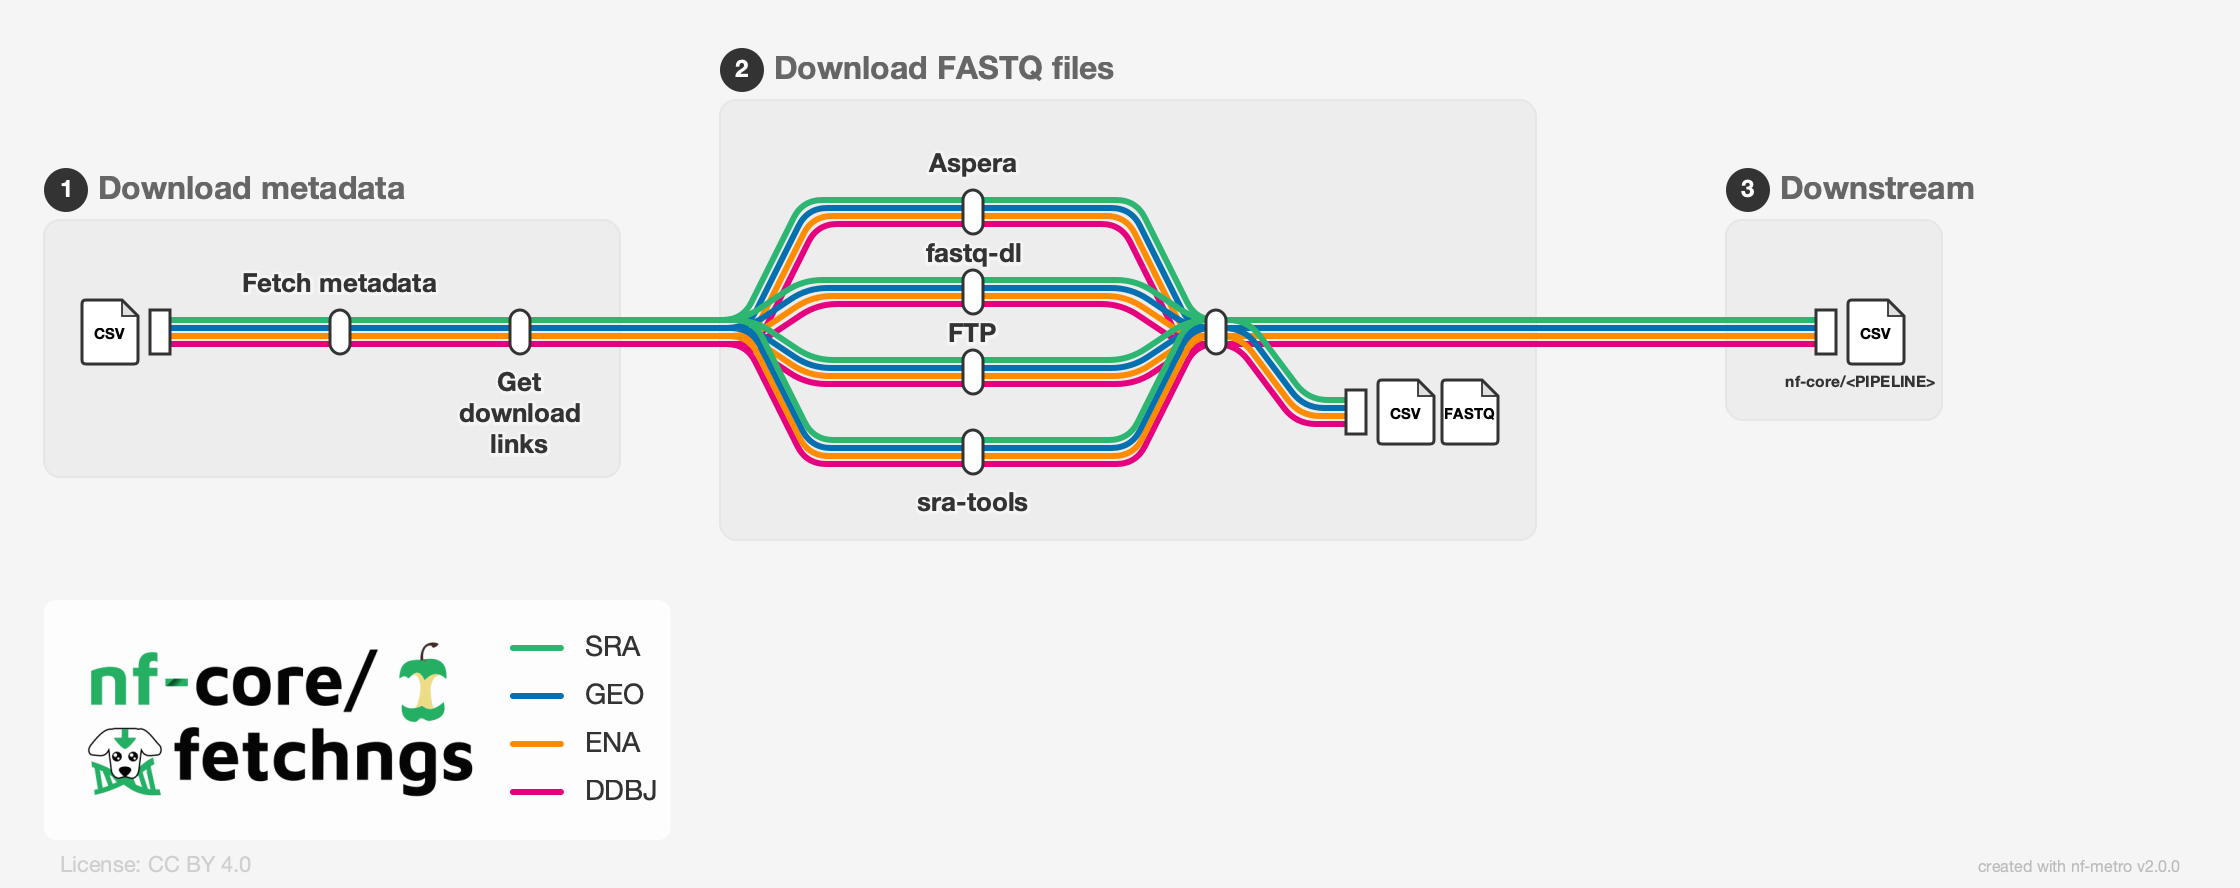
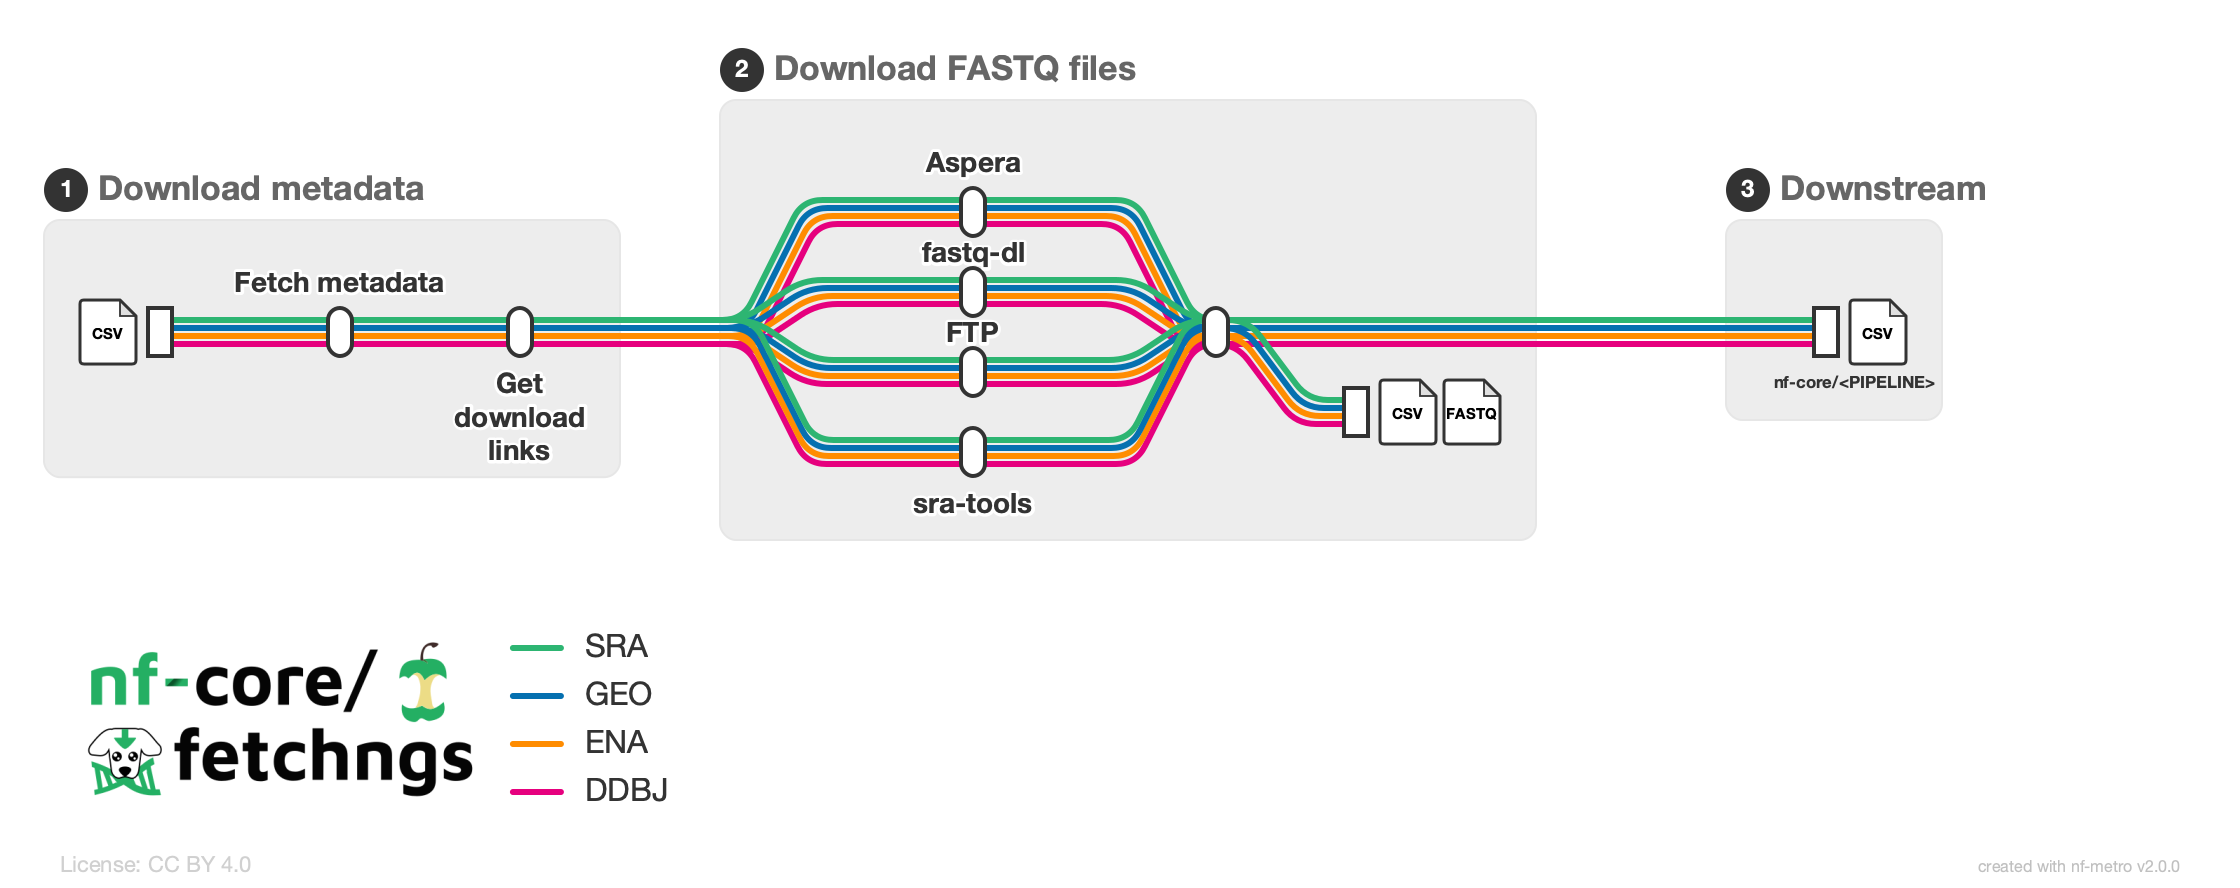
Use transparent background for metro map (#393)

diff --git a/docs/dev/metro_map.md b/docs/dev/metro_map.md
@@ -10,11 +10,14 @@ nf-metro render assets/metro_map.mmd \
   -o docs/images/nf-core-fetchngs_metro_map_grey.svg \
   --logo docs/images/nf-core-fetchngs_logo_light.png
 
-# PNG: bake the light palette and drop the var() chrome CSS cairosvg can't parse.
+# PNG: render with the `light` theme, whose background_color is 'none', so the
+# PNG has a transparent ground and stays readable in both GitHub light and dark
+# mode. Its chrome palette is identical to nfcore-light. Drop the var() chrome
+# CSS cairosvg can't parse.
 # Use cairosvg, not rsvg-convert, which ignores dominant-baseline and overlaps labels.
 nf-metro render assets/metro_map.mmd \
   -o /tmp/fetchngs_metro_flat.svg \
-  --mode light --no-chrome-css \
+  --theme light --no-chrome-css \
   --logo docs/images/nf-core-fetchngs_logo_light.png
 
 python -c "import cairosvg; cairosvg.svg2png(

diff --git a/CHANGELOG.md b/CHANGELOG.md
@@ -59,6 +59,7 @@ Thank you to everyone else that has contributed by reporting bugs, enhancements 
 - [PR #389](https://github.com/nf-core/fetchngs/pull/389) - Update CHANGELOG
 - [PR #391](https://github.com/nf-core/fetchngs/pull/391) - Update supported nf-core pipelines
 - [PR #392](https://github.com/nf-core/fetchngs/pull/392) - Add sarek pipeline support
+- [PR #393](https://github.com/nf-core/fetchngs/pull/393) - Use transparent background for metro map
 
 ### Software dependencies
 
